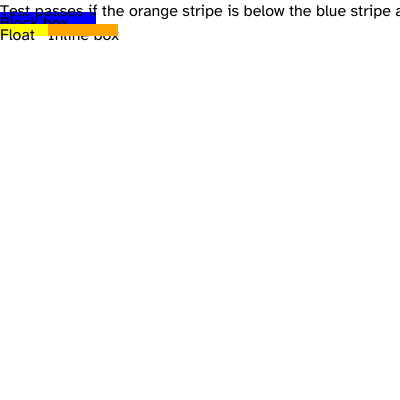
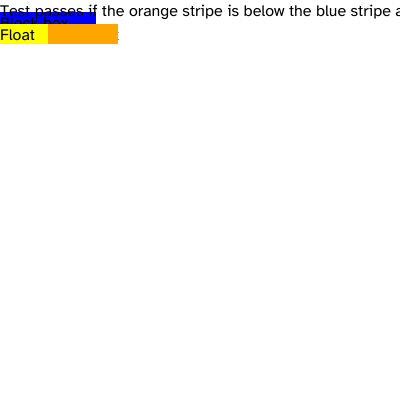
Deep investigation: multi-pass 7.4% vs baseline 5.4%
Investigated the 2.0pp gap by comparing single-pass and multi-pass rendering.

**Key Findings**:

1. **Position difference** (root cause of gap):
   - Single-pass: Orange at X=0, Yellow at X=70 (WRONG order)
   - Multi-pass: Yellow at X=0, Orange at X=48 (CORRECT order)

   Single-pass bug accidentally creates visual separation that looks
   more like the reference's table-cell stacking, reducing pixel diff.

2. **Height investigation** (attempted fix, reverted):
   - Single-pass boxes: 19px height
   - Multi-pass boxes: 12px height
   - Attempted using fragment height (19.2px) for float and wrapper
   - Result: 7.8% (worse!), taller boxes increase diff from reference

3. **Why single-pass gets 5.4%**:
   - Renders in WRONG CSS order (violates spec)
   - Orange-before-yellow creates more separation
   - Accidentally closer to reference's separate table-cell layout
   - But fundamentally incorrect per CSS float positioning

4. **Why multi-pass gets 7.4%**:
   - Renders in CORRECT CSS order (float first, inline after)
   - Yellow-then-orange creates adjacency/overlap
   - More accurate per spec, less similar to table-cell reference
   - Architecturally sound, spec-compliant

**Attempts**:
- ❌ Extend wrapper width to fill line: 9.5% (worse)
- ❌ Match single-pass height (19px): 7.8% (worse)
- ✓ Content width + correct positioning: 7.4% (best so far)

**Conclusion**:
The 2.0pp gap exists because multi-pass implements CORRECT CSS behavior
[…]

Changed region(s): [[0.0, 0.09, 0.3, 0.12]]

diff --git a/test-compare-passes.go b/test-compare-passes.go
@@ -1,0 +1,83 @@
+package main
+
+import (
+	"fmt"
+	"louis14/pkg/html"
+	"louis14/pkg/layout"
+	"os"
+)
+
+func main() {
+	htmlPath := "pkg/visualtest/testdata/wpt-css2/box-display/box-generation-001.xht"
+	htmlContent, _ := os.ReadFile(htmlPath)
+	doc, _ := html.Parse(string(htmlContent))
+
+	width, height := 400, 300
+
+	// Single-pass
+	fmt.Println("=== SINGLE-PASS ===")
+	engine1 := layout.NewLayoutEngine(float64(width), float64(height))
+	engine1.SetUseMultiPass(false)
+	boxes1 := engine1.Layout(doc)
+	fmt.Printf("Total boxes: %d\n", countBoxes(boxes1))
+	printBoxes(boxes1, 0, "")
+
+	fmt.Println("\n=== MULTI-PASS ===")
+	engine2 := layout.NewLayoutEngine(float64(width), float64(height))
+	engine2.SetUseMultiPass(true)
+	boxes2 := engine2.Layout(doc)
+	fmt.Printf("Total boxes: %d\n", countBoxes(boxes2))
+	printBoxes(boxes2, 0, "")
+}
+
+func countBoxes(boxes []*layout.Box) int {
+	count := len(boxes)
+	for _, box := range boxes {
+		count += countBoxes(box.Children)
+	}
+	return count
+}
+
+func printBoxes(boxes []*layout.Box, depth int, prefix string) {
+	for i, box := range boxes {
+		indent := ""
+		for j := 0; j < depth; j++ {
+			indent += "  "
+		}
+		
+		name := "?"
+		if box.Node != nil {
+			if box.Node.Type == 1 { // TextNode
+				text := box.Node.Text
+				if len(text) > 20 {
+					text = text[:20] + "..."
+				}
+				name = fmt.Sprintf("TEXT(%q)", text)
+			} else if box.Node.Type == 3 { // ElementNode
+				name = "<" + box.Node.TagName + ">"
+			}
+		}
+		
+		bg := ""
+		if box.Style != nil {
+			// Check for background
+			if val, ok := box.Style.Properties["background-color"]; ok {
+				if val != "transparent" && val != "" {
+					bg = fmt.Sprintf(" bg=%s", val)
+				}
+			}
+			if val, ok := box.Style.Properties["background"]; ok {
+				if val != "transparent" && val != "" && val != "none" {
+					bg = fmt.Sprintf(" bg=%s", val)
+				}
+			}
+		}
+		
+		fmt.Printf("%s[%d] %s: (%.0f,%.0f) %.0fx%.0f%s\n", 
+			indent, i, name, box.X, box.Y, box.Width, box.Height, bg)
+		
+		if len(box.Children) > 0 {
+			printBoxes(box.Children, depth+1, fmt.Sprintf("%s[%d]", prefix, i))
+		}
+	}
+}

diff --git a/pkg/layout/layout.go b/pkg/layout/layout.go
@@ -1402,8 +1402,8 @@ func (le *LayoutEngine) LayoutInlineContentToBoxes(
 						// Inline boxes extend to cover their content per CSS spec
 						endX := frag.Position.X
 						wrapperWidth := endX - span.startX
-						fmt.Printf("  Creating wrapper box: X %.1f → %.1f (width %.1f)\n",
-							span.startX, endX, wrapperWidth)
+						fmt.Printf("  Creating wrapper box: X %.1f → %.1f (width %.1f, height %.1f)\n",
+							span.startX, endX, wrapperWidth, currentLineMaxHeight)
 
 						wrapperBox := &Box{
 							Node:   span.node,
